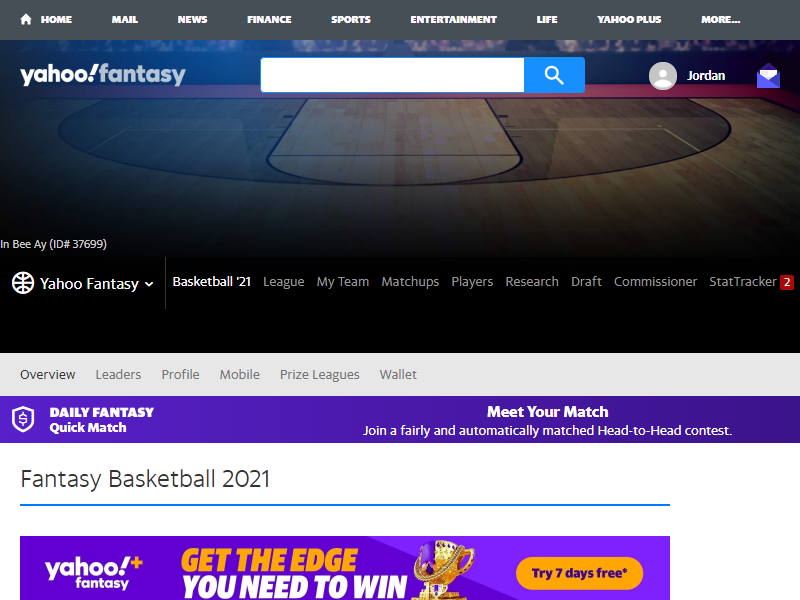
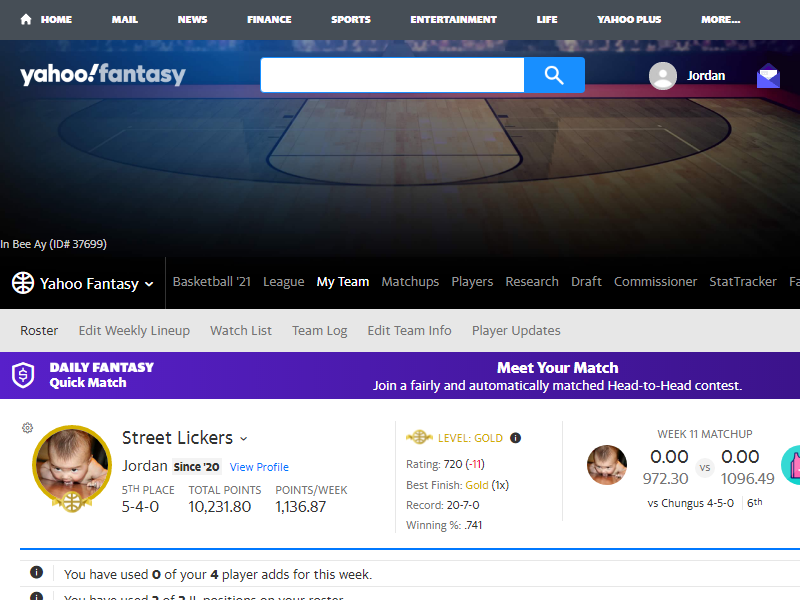
get to edit weekly lineup page

diff --git a/main.go b/main.go
@@ -7,7 +7,8 @@ import (
 	"log"
 	"time"
 
-	cdp "github.com/chromedp/chromedp"
+	"github.com/chromedp/cdproto/cdp"
+	"github.com/chromedp/chromedp"
 )
 
 func main() {
@@ -21,7 +22,7 @@ func main() {
 	fmt.Scanln(&password)
 
 	// create chrome instance
-	ctx, cancel := cdp.NewContext(
+	ctx, cancel := chromedp.NewContext(
 		context.Background(),
 		// chromedp.WithDebugf(log.Printf),
 	)
@@ -32,19 +33,33 @@ func main() {
 	defer cancel()
 
 	var buf []byte
-	err := cdp.Run(ctx,
-		cdp.Navigate(`https://login.yahoo.com/`),
-		cdp.WaitVisible(`username-challenge`),
-		cdp.SetValue(`phone-no`, username),
-		cdp.Click(`login-signin`, cdp.NodeVisible),
-		cdp.WaitVisible(`password-container`),
-		cdp.SetValue(`login-passwd`, password),
-		cdp.Click(`login-signin`, cdp.NodeVisible),
-		cdp.WaitVisible(`ybar-logo`),
-		cdp.Navigate(`https://basketball.fantasysports.yahoo.com/`),
-		cdp.Sleep(2*time.Second),
-		cdp.CaptureScreenshot(&buf),
+	var nodes []*cdp.Node
+	err := chromedp.Run(ctx,
+		chromedp.Navigate(`https://login.yahoo.com/`),
+		chromedp.WaitVisible(`username-challenge`),
+		chromedp.SetValue(`phone-no`, username),
+		chromedp.Click(`login-signin`, chromedp.NodeVisible),
+		chromedp.WaitVisible(`password-container`),
+		chromedp.SetValue(`login-passwd`, password),
+		chromedp.Click(`login-signin`, chromedp.NodeVisible),
+		chromedp.WaitVisible(`ybar-logo`),
+		chromedp.Navigate(`https://basketball.fantasysports.yahoo.com/`),
+		chromedp.Sleep(2*time.Second),
+		chromedp.Nodes(`I Navtarget yfa-rapid-beacon`, &nodes),
 	)
+	if err != nil {
+		log.Fatal(err)
+	}
+	var url = "https://basketball.fantasysports.yahoo.com/" + nodes[19].AttributeValue("href")
+
+	err = chromedp.Run(ctx,
+		chromedp.Navigate(url),
+		chromedp.Sleep(2*time.Second),
+		chromedp.CaptureScreenshot(&buf),
+	)
+	if err != nil {
+		log.Fatal(err)
+	}
 
 	ioutil.WriteFile("screenshot.png", buf, 0644)
 	if err != nil {
